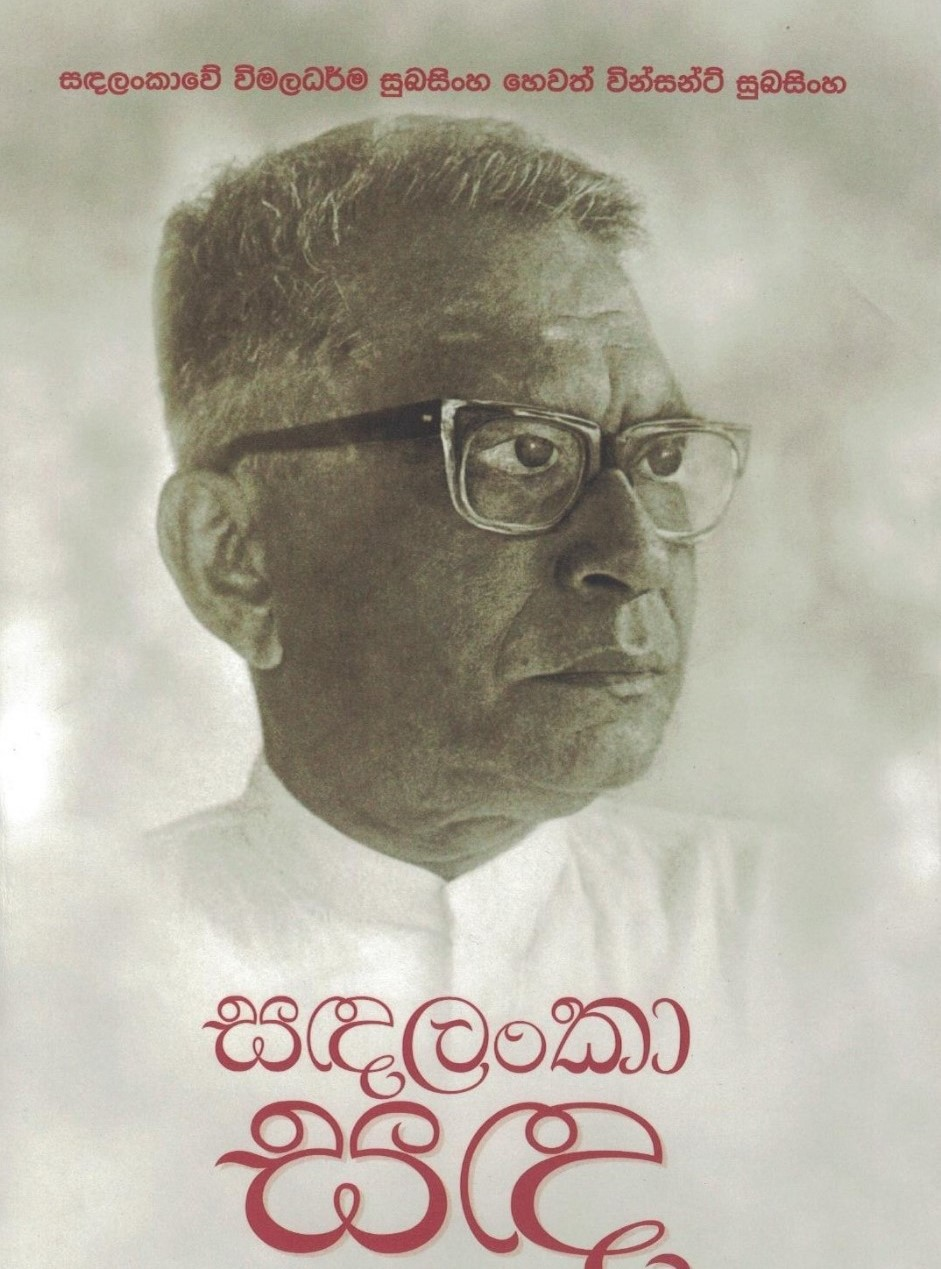
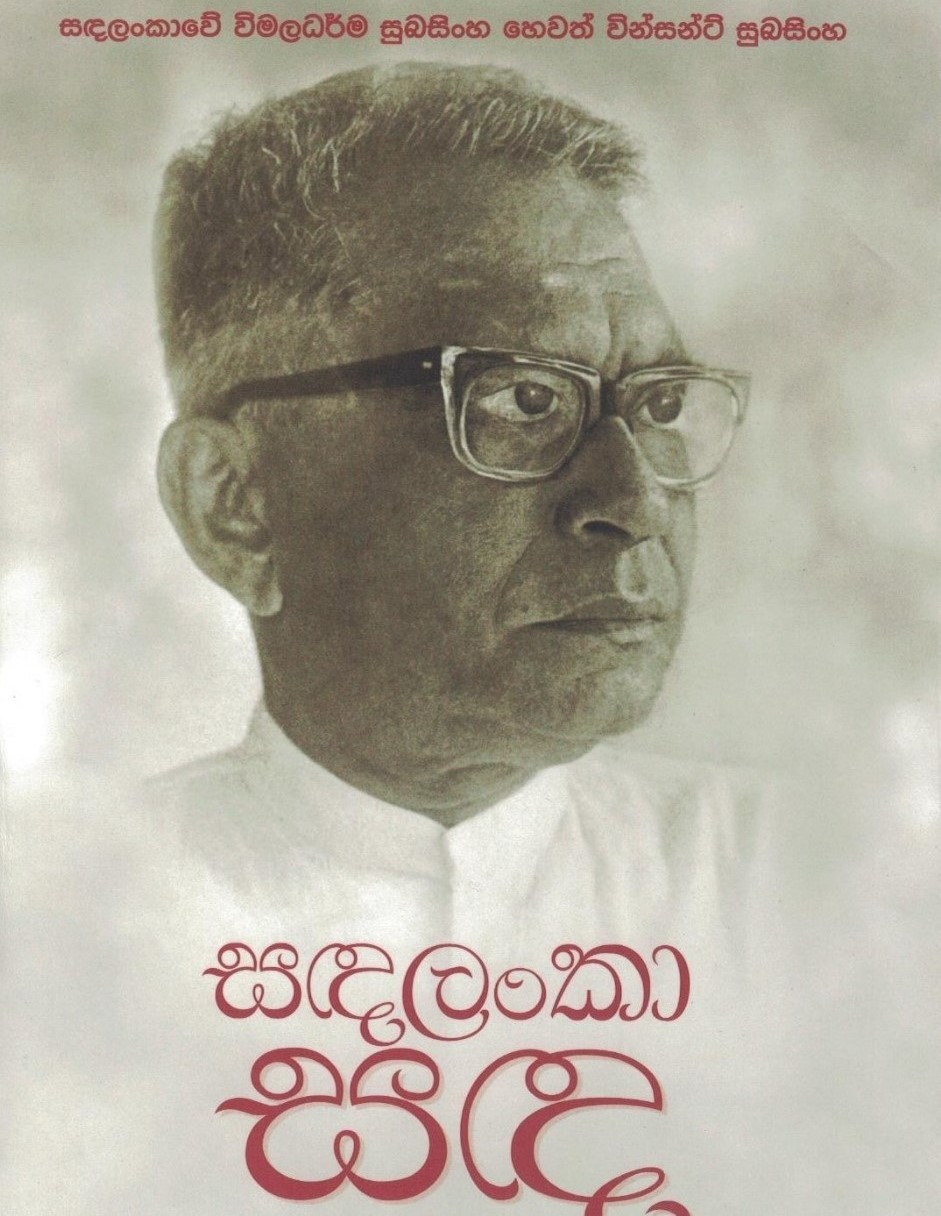
edit sansa image padding

diff --git a/index.html b/index.html
@@ -366,7 +366,7 @@
             <!--text-content-->
           </div>
           <div class="col-md-6 my-auto">
-            <figure data-aos="zoom-in-left">
+            <figure data-aos="zoom-in-left" style="padding-top: 10px">
               <img
                 src="images\main\sandalanka_sanda.jpg"
                 class="img-fluid"
